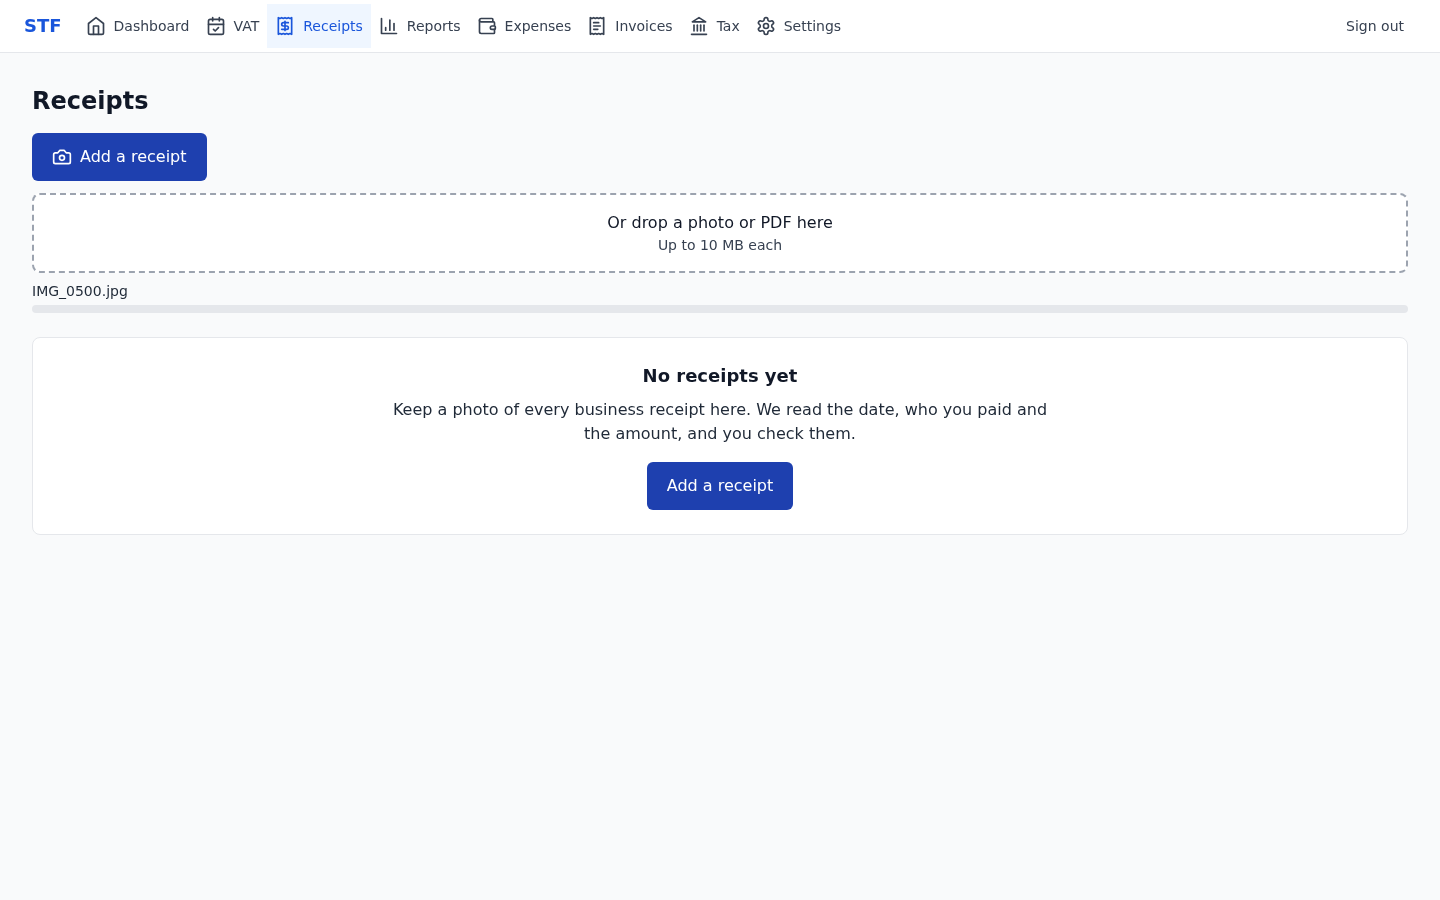
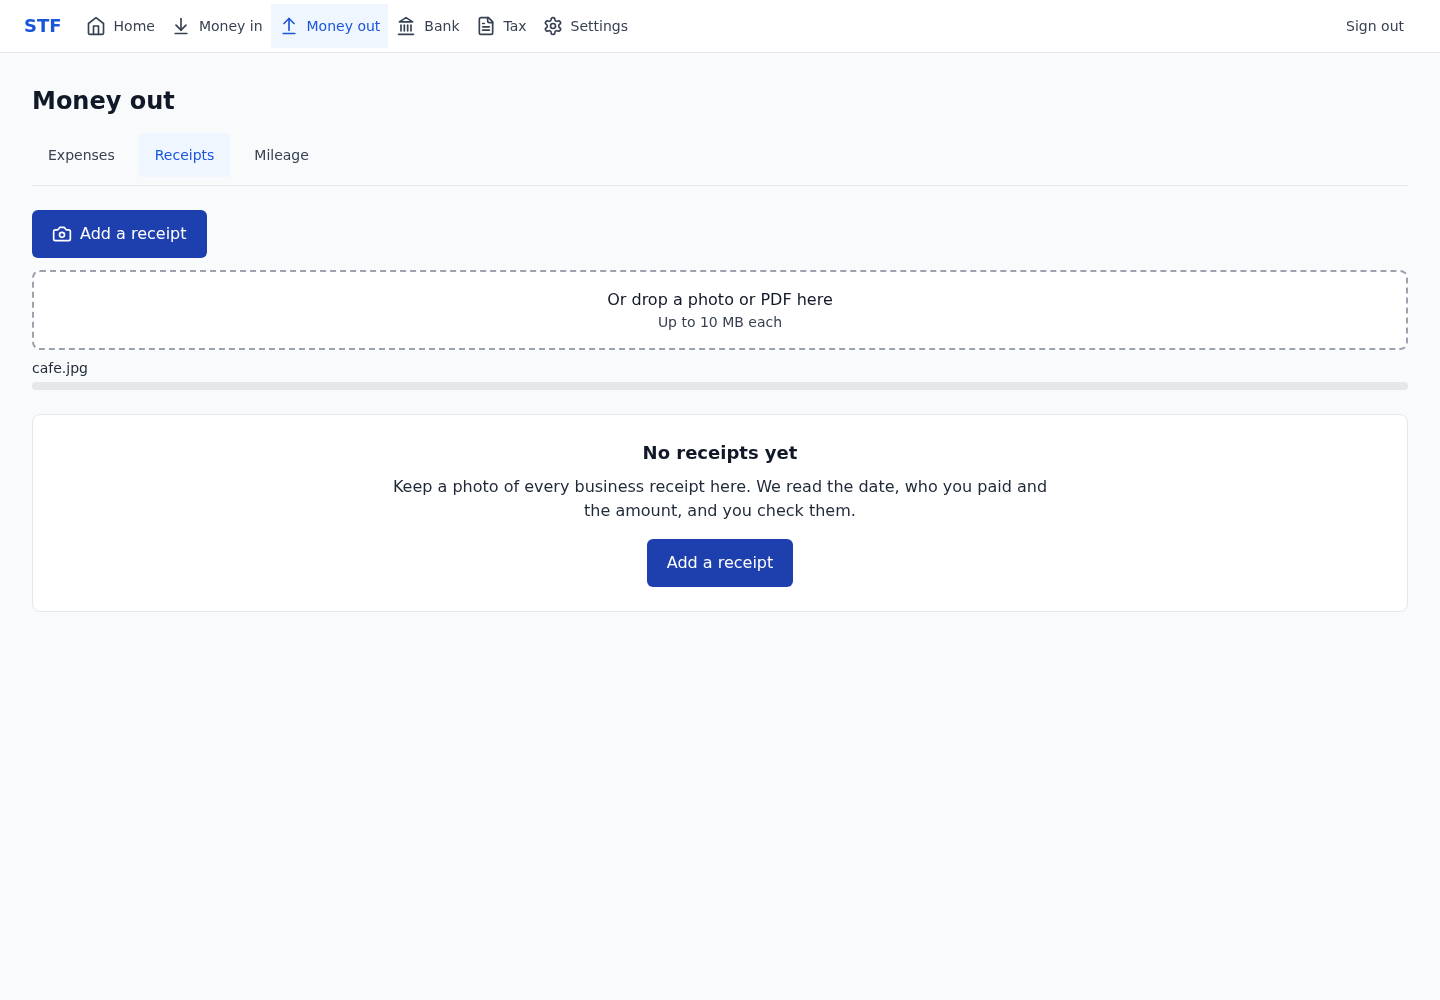
STF-74: recapture receipts screens in the six-item menu; drop dark copies

diff --git a/src/pages/ReceiptsPage.test.tsx b/src/pages/ReceiptsPage.test.tsx
@@ -91,14 +91,13 @@ describe('receipts list', () => {
     expect(await screen.findByText('train-ticket.pdf')).toBeTruthy();
   });
 
-  it('lists date, who, what for, amount in pounds and category, with a thumbnail or file icon', async () => {
+  it('lists date, who, amount in pounds and category, with a thumbnail or file icon', async () => {
     vi.mocked(fetchReceipts).mockResolvedValue({ receipts: [photo, pdf], nextCursor: null });
     renderPage();
     const photoRow = (await screen.findByText('Corner Cafe')).closest('li')!;
     expect(within(photoRow).getByText('28 Oct 2026')).toBeTruthy();
     expect(within(photoRow).getByText('Meals')).toBeTruthy();
     expect(within(photoRow).getByText('£12.50')).toBeTruthy();
-    expect(within(photoRow).getByText('Meals')).toBeTruthy();
     expect(photoRow.querySelector('img')?.getAttribute('src')).toBe('https://files.test/cafe-lunch.jpg');
     const pdfRow = screen.getByText('train-ticket.pdf').closest('li')!;
     expect(within(pdfRow).getByText('Not read yet')).toBeTruthy();
@@ -118,11 +117,11 @@ describe('receipts list', () => {
     await waitFor(() => expect(fetchReceipts).toHaveBeenCalledTimes(2));
   });
 
-  it('searches by who, what for and category', async () => {
+  it('searches by who and category', async () => {
     vi.mocked(fetchReceipts).mockResolvedValue({ receipts: [photo, pdf], nextCursor: null });
     renderPage();
     await screen.findByText('Corner Cafe');
-    fireEvent.change(screen.getByRole('searchbox', { name: 'Search receipts' }), { target: { value: 'lunch' } });
+    fireEvent.change(screen.getByRole('searchbox', { name: 'Search receipts' }), { target: { value: 'meals' } });
     expect(screen.queryByText('train-ticket.pdf')).toBeNull();
     expect(screen.getByText('Corner Cafe')).toBeTruthy();
     fireEvent.change(screen.getByRole('searchbox', { name: 'Search receipts' }), { target: { value: 'zzz' } });

diff --git a/src/pages/ReceiptsPage.tsx b/src/pages/ReceiptsPage.tsx
@@ -249,7 +249,7 @@ function ReceiptList({ onAdd }: { onAdd: () => void }) {
           <input
             type="search"
             aria-label="Search receipts"
-            placeholder="Search by who, what for or category"
+            placeholder="Search by who or category"
             value={search}
             onChange={(event) => setSearch(event.target.value)}
             className={`min-h-11 w-full rounded-md border border-gray-400 bg-white px-3 text-gray-900 md:max-w-sm ${focusClass}`}
